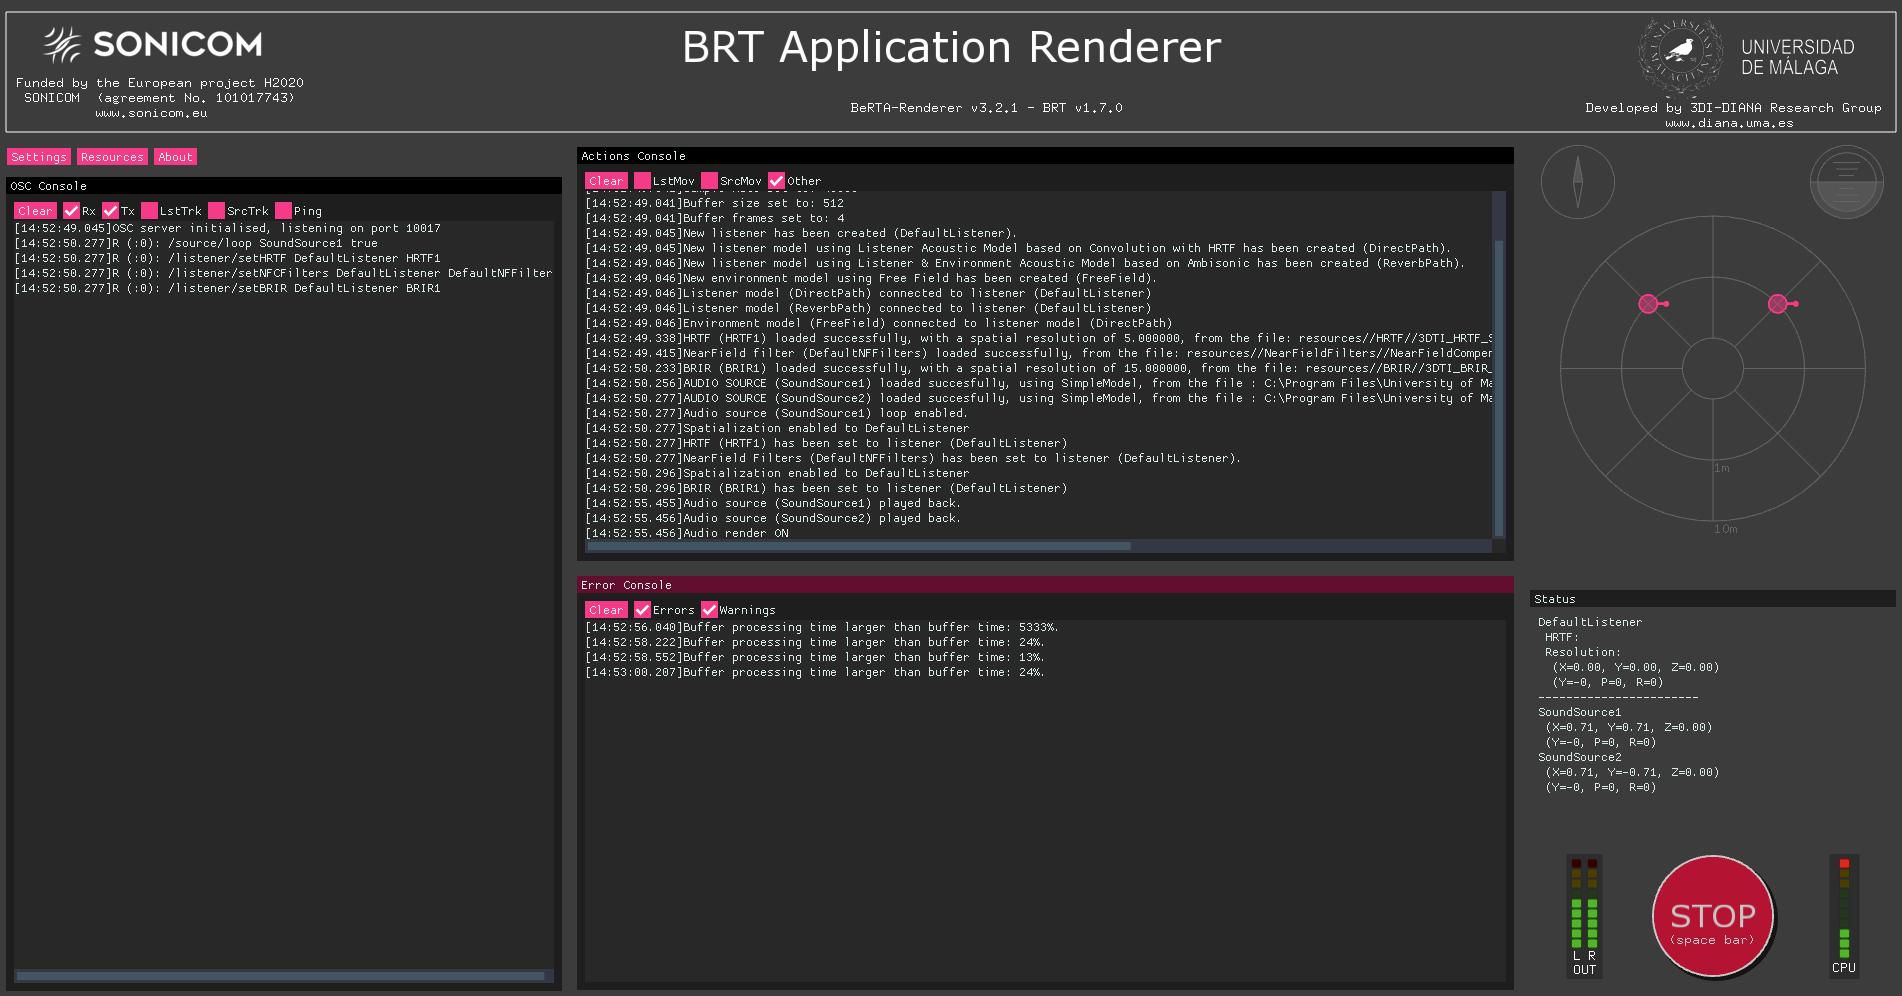
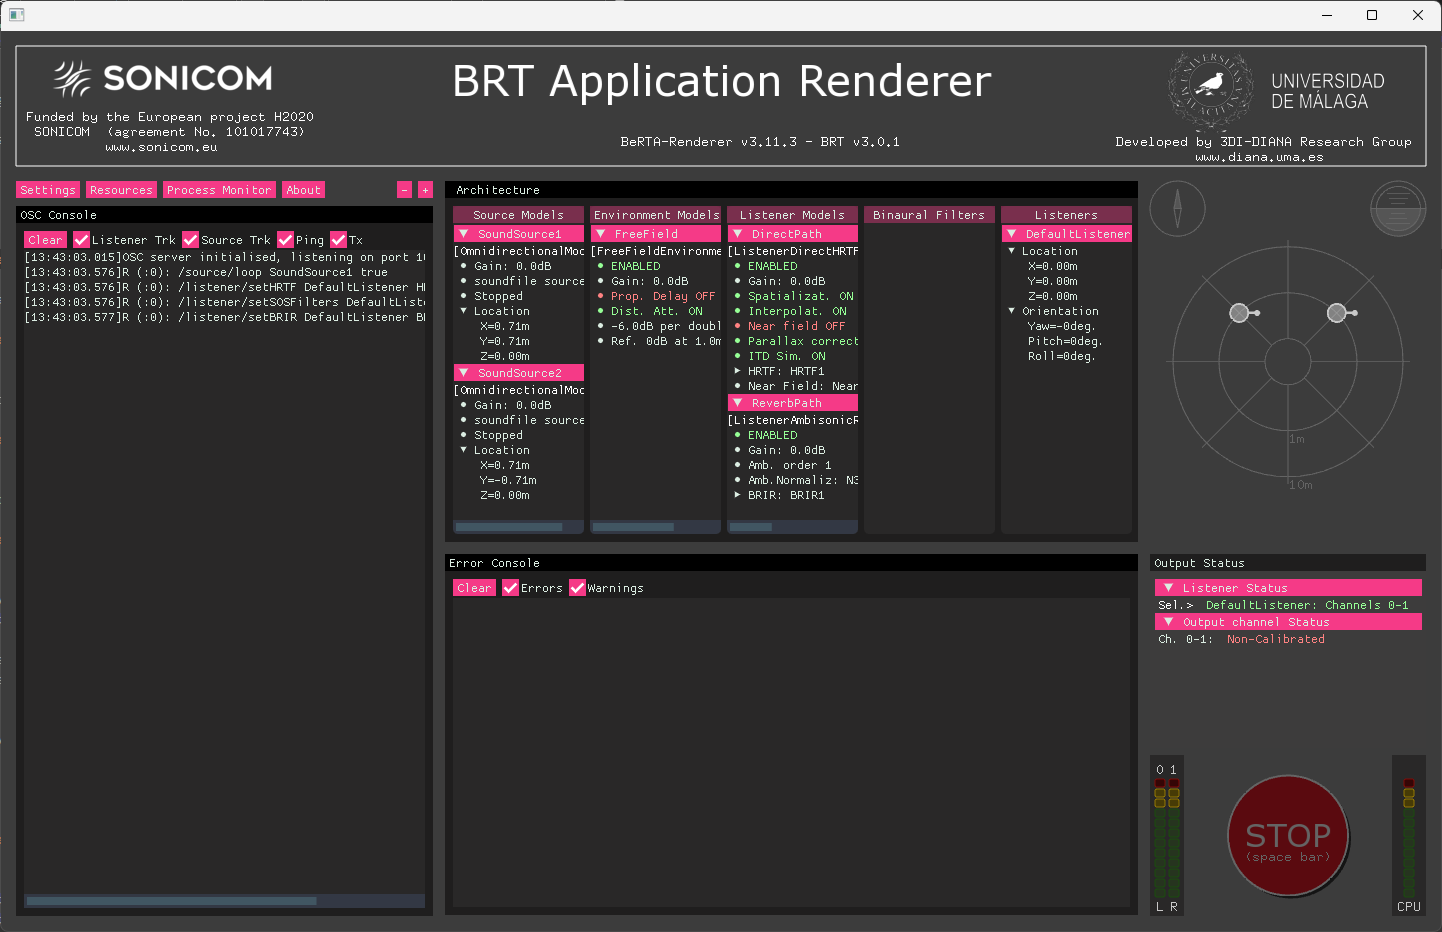
feat; Add new sections to the website explaining the Settings and Resources menus

diff --git a/docs/applications/berta-renderer/settings-menu.md b/docs/applications/berta-renderer/settings-menu.md
@@ -1,0 +1,90 @@
+# Settings Menu
+
+The **Settings** menu allows users to view and configure general application parameters. It is divided into two sections:
+ **Audio Interfaces** and **General settings**
+
+## General settings
+
+This section displays global parameters defined in the `settings.json` configuration file. Some of these parameters can be modified directly from the interface, while others are read-only.
+
+<div style="border: 1px solid #000; padding: 10px; display: block; max-width: 800px; margin: 0 auto;">
+    <img src="/BRT-Documentation/assets/berta_renderer_setting_menu_general.png" alt="BeRTA Renderer - General Settings menu" style="display: block; margin: 0 auto; max-width: 100%;">
+    <p style="text-align: center;">BeRTA Renderer - General Settings menu</p>
+</div>
+
+### Parameters
+
+| Parameter | Description | Editable |
+|----------|-------------|----------|
+| **Sample rate** | Defines the sampling rate used by the application. All loaded audio files and audio devices must operate at this same rate. | ❌ No |
+| **Buffer size** | Number of frames per processing block. Larger values increase latency but provide more processing time, enabling more complex simulations (e.g., reverberation). | ❌ No |
+| **Buffer Frames** | Parameter related to the underlying audio backend (e.g., RtAudio on Windows). It defines the number of internal buffers used before sending audio to the output device. The operating system will try to honor this value, but it is not guaranteed. Higher values may improve stability but increase latency. | ✅ Yes |
+| **OSC Listen Port** | UDP port where BeRTA listens for incoming OSC messages. | ✅ Yes |
+| **Extrapolation Method** | Defines the extrapolation strategy used during interpolation when loading HRTFs or directivity data. Available options: <br><br>• **ZeroInsertion**: Missing data points are filled with zeros. This method avoids introducing artificial information but may produce discontinuities. <br>• **NearestPoint**: Uses the closest available data point. This provides smoother results but may introduce spatial bias. | ✅ Yes |
+
+
+---
+
+## Audio Interfaces
+
+This section allows selecting the audio devices used for input and output.
+
+Two lists are displayed:
+
+- Available **input devices**
+- Available **output devices**
+
+Each device entry includes:
+
+- Audio backend (e.g., ASIO, WASAPI)
+- Device name
+- Number of available channels
+
+!!! info API limitation
+    Both input and output devices must use the **same audio backend/API**.  This is a limitation imposed by the underlying audio library (audio backend).
+
+<div style="border: 1px solid #000; padding: 10px; display: block; max-width: 800px; margin: 0 auto;">
+    <img src="/BRT-Documentation/assets/berta_renderer_setting_menu_audio_interfaces.png" alt="BeRTA Renderer - Audio Interfaces menu" style="display: block; margin: 0 auto; max-width: 100%;">
+    <p style="text-align: center;">BeRTA Renderer - Audio Interfaces menu</p>
+</div>
+
+### Input Interface
+
+The input interface is used for **line-in sound sources**.
+
+#### Input Channels
+
+The **Input Channels** dropdown defines how many channels from the selected input device will be available for use.
+
+- Channels are assigned **sequentially starting from 1**
+- If set to `0`, no input channels are used
+- If set to `N`, the first `N` channels are enabled
+
+When creating a line-in source, the parameter `linein_channel` specifies which of these enabled channels is used.
+
+**Example:**
+
+- Device with 4 input channels
+- Input Channels set to `2`
+- Available channels for use: **1 and 2**
+- Valid `linein_channel` values: `1` or `2`
+
+
+### Output Interface
+
+The output interface defines the audio device used for playback.
+
+#### Output Channels
+
+The **Output Channels** dropdown determines how many output channels are enabled.
+
+- Channels are enabled **in pairs** (2, 4, 6, ...)
+- Each **listener requires 2 channels** (left and right)
+
+**Example:**
+
+- If `4` channels are selected:
+  - The system can render **2 listeners simultaneously**
+
+This allows multi-listener simulations using a single multi-channel audio device.
+

diff --git a/docs/applications/berta-renderer/resources-menu.md b/docs/applications/berta-renderer/resources-menu.md
@@ -1,0 +1,62 @@
+# Resources Menu
+
+The **Resources** menu displays all resources currently loaded in the application.
+
+Resources can be loaded in two ways:
+
+* Dynamically during execution via **OSC commands**
+* At startup, from the resource lists defined in the `settings.json` configuration file
+
+The content of this menu is updated **in real time** as new resources are loaded.
+
+<div style="border: 1px solid #000; padding: 10px; display: block; max-width: 800px; margin: 0 auto;">
+    <img src="/BRT-Documentation/assets/berta_renderer_resources_menu.png" alt="BeRTA Renderer - Resources menu" style="display: block; margin: 0 auto; max-width: 100%;">
+    <p style="text-align: center;">BeRTA Renderer - Resources menu</p>
+</div>
+
+## Resource Lists
+
+Resources are organized into separate tabs, one for each resource type:
+
+* **HRTFs**
+* **Directivities**
+* **Filters**
+* **BRIRs**
+* **Rooms**
+
+Each tab contains a table listing the resources of that type.
+
+## Displayed Information
+
+Each resource is represented as a row in the corresponding table. The following information is shown:
+
+| Column          | Description                                                                                    |
+| --------------- | ---------------------------------------------------------------------------------------------- |
+| **ID**          | Unique identifier of the resource within the application                                       |
+| **Type**        | Describes the nature of the resource. Its meaning depends on the resource category (see below) |
+| **Source File** | Path or name of the file from which the resource was loaded                                    |
+
+!!! note
+    The **Type** column has a different meaning depending on the resource category.
+
+## Type Column by Resource
+
+The interpretation of the **Type** column varies depending on the selected tab:
+
+- **HRTFs / Directivities**: Indicates whether the dataset has been **interpolated** or loaded as **raw data**
+
+- **Filters**: Indicates the filter structure.
+    - **FIR** (Finite Impulse Response)
+    - **IIR** (Infinite Impulse Response)
+- **Rooms**: Indicates the room model type.
+    - **Shoebox** (parametric rectangular room)
+    - **Free-form** (geometry loaded from an external `.obj` file)
+- **BRIRs**
+    - This category does **not include a Type column**
+    - Only **ID** and **Source File** are displayed
+
+## Notes
+
+* This menu is **read-only**: it is intended for inspection of the currently loaded resources
+* Resources appear automatically when loaded via OSC or configuration
+* Future versions may include additional interaction features (e.g., resource removal or inspection)

diff --git a/docs/applications/berta-renderer/index.md b/docs/applications/berta-renderer/index.md
@@ -2,6 +2,11 @@
 
 BeRTA Renderer is the flagship application of the BRT Toolbox, providing a high degree of configurability for real-time spatial audio rendering. The application integrates the BRT library and works for Windows x64 (Windows 10 and 11) and MacOS Universal. 
 
+<div style="border: 1px solid #000; padding: 10px; display: inline-block;">
+    <img src="/BRT-Documentation/assets/berta_renderer.png" alt="HRTF offline process" style="display: block; margin: 0 auto;">
+    <p style="text-align: center;">BeRTA Renderer Interface</p>
+</div>
+
 Key functionalities include:
 
 - **Real-time Rendering**:
@@ -17,7 +22,7 @@ Key functionalities include:
 
 The application is fully controlled through  <a href="https://en.wikipedia.org/wiki/Open_Sound_Control" target="_blank">OSC</a> (Open Sound Control), resulting in a graphical interface focused primarily on reporting rendering status. The GUI consists of terminal-like sections that display critical information, such as rendering parameters (e.g., enabled or disabled features) and the settings of audio sources and the listener. Additional terminals provide detailed logs of OSC commands received and sent, actions executed by BeRTA, and error messages detected by BeRTA's built-in diagnostic system.
 
-<div style="border: 1px solid #000; padding: 10px; display: inline-block;">
-    <img src="/BRT-Documentation/assets/berta_renderer.png" alt="HRTF offline process" style="display: block; margin: 0 auto;">
-    <p style="text-align: center;">BeRTA Renderer Interface</p>
-</div>
+Some of the relevant menus are:
+
+- [**Settings menu**](settings-menu.md): allows users to view and configure general application parameters.
+- [**Resources menu**](resources-menu.md): displays all resources currently loaded in the application.